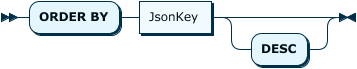
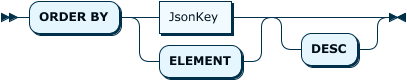
Add ANY to SEARCH, remove ELEMENT from FROM

diff --git a/res/doc.html b/res/doc.html
@@ -217,11 +217,11 @@
             
             <li><a href="#Statement" title="Statement">Statement</a></li>
             </ul>
-         </p><br><p style="font-size: 14px; font-weight:bold"><a name="Search">Search:</a></p><img border="0" src="diagram/Search.png" height="113" width="947" usemap="#Search.map"><map name="Search.map"><area shape="rect" coords="123,1,183,33" href="#Target" title="Target"><area shape="rect" coords="395,1,471,33" href="#Operator" title="Operator"><area shape="rect" coords="491,1,547,33" href="#Value" title="Value"></map><p>
+         </p><br><p style="font-size: 14px; font-weight:bold"><a name="Search">Search:</a></p><img border="0" src="diagram/Search.png" height="211" width="911" usemap="#Search.map"><map name="Search.map"><area shape="rect" coords="269,1,329,33" href="#Target" title="Target"><area shape="rect" coords="541,1,617,33" href="#Operator" title="Operator"><area shape="rect" coords="637,1,693,33" href="#Value" title="Value"></map><p>
          
          <div class="ebnf">
             
-            <pre><a href="#Search" title="Search" shape="rect">Search</a>   ::= 'SEARCH' <a href="#Target" title="Target" shape="rect">Target</a> 'FOR' ( 'KEY' | 'VALUE' )? <a href="#Operator" title="Operator" shape="rect">Operator</a> <a href="#Value" title="Value" shape="rect">Value</a> 'CASE SENSITIVE'? 'WITH VALUES'?</pre>
+            <pre><a href="#Search" title="Search" shape="rect">Search</a>   ::= 'SEARCH' 'DISTINCT'? <a href="#Target" title="Target" shape="rect">Target</a> 'FOR' ( 'ANY' | 'KEY' | 'VALUE' ) <a href="#Operator" title="Operator" shape="rect">Operator</a> <a href="#Value" title="Value" shape="rect">Value</a> 'CASE SENSITIVE'? 'WITH VALUES'?</pre>
             </div>
          </p>
       
@@ -231,11 +231,11 @@
             
             <li><a href="#Statement" title="Statement">Statement</a></li>
             </ul>
-         </p><br><p style="font-size: 14px; font-weight:bold"><a name="Where">Where:</a></p><img border="0" src="diagram/Where.png" height="69" width="587" usemap="#Where.map"><map name="Where.map"><area shape="rect" coords="119,1,191,33" href="#JsonKey" title="JsonKey"><area shape="rect" coords="211,1,287,33" href="#Operator" title="Operator"><area shape="rect" coords="307,1,363,33" href="#Value" title="Value"></map><p>
+         </p><br><p style="font-size: 14px; font-weight:bold"><a name="Where">Where:</a></p><img border="0" src="diagram/Where.png" height="81" width="637" usemap="#Where.map"><map name="Where.map"><area shape="rect" coords="139,1,211,33" href="#JsonKey" title="JsonKey"><area shape="rect" coords="261,1,337,33" href="#Operator" title="Operator"><area shape="rect" coords="357,1,413,33" href="#Value" title="Value"></map><p>
          
          <div class="ebnf">
             
-            <pre><a href="#Where" title="Where" shape="rect">Where</a>    ::= 'WHERE' <a href="#JsonKey" title="JsonKey" shape="rect">JsonKey</a> <a href="#Operator" title="Operator" shape="rect">Operator</a> <a href="#Value" title="Value" shape="rect">Value</a> 'CASE SENSITIVE'?</pre>
+            <pre><a href="#Where" title="Where" shape="rect">Where</a>    ::= 'WHERE' ( <a href="#JsonKey" title="JsonKey" shape="rect">JsonKey</a> | 'ELEMENT' ) <a href="#Operator" title="Operator" shape="rect">Operator</a> <a href="#Value" title="Value" shape="rect">Value</a> 'CASE SENSITIVE'?</pre>
             </div>
          </p>
       
@@ -279,11 +279,11 @@
             
             <li><a href="#Select" title="Select">Select</a></li>
             </ul>
-         </p><br><p style="font-size: 14px; font-weight:bold"><a name="OrderBy">OrderBy:</a></p><img border="0" src="diagram/OrderBy.png" height="69" width="357" usemap="#OrderBy.map"><map name="OrderBy.map"><area shape="rect" coords="139,1,211,33" href="#JsonKey" title="JsonKey"></map><p>
+         </p><br><p style="font-size: 14px; font-weight:bold"><a name="OrderBy">OrderBy:</a></p><img border="0" src="diagram/OrderBy.png" height="81" width="407" usemap="#OrderBy.map"><map name="OrderBy.map"><area shape="rect" coords="159,1,231,33" href="#JsonKey" title="JsonKey"></map><p>
          
          <div class="ebnf">
             
-            <pre><a href="#OrderBy" title="OrderBy" shape="rect">OrderBy</a>  ::= 'ORDER BY' <a href="#JsonKey" title="JsonKey" shape="rect">JsonKey</a> 'DESC'?</pre>
+            <pre><a href="#OrderBy" title="OrderBy" shape="rect">OrderBy</a>  ::= 'ORDER BY' ( <a href="#JsonKey" title="JsonKey" shape="rect">JsonKey</a> | 'ELEMENT' ) 'DESC'?</pre>
             </div>
          </p>
       
@@ -387,15 +387,16 @@
             
             <li><a href="#Describe" title="Describe">Describe</a></li>
             </ul>
-         </p><br><p style="font-size: 14px; font-weight:bold"><a name="SelectProjection">SelectProjection:</a></p><img border="0" src="diagram/SelectProjection.png" height="213" width="403" usemap="#SelectProjection.map"><map name="SelectProjection.map"><area shape="rect" coords="49,1,121,33" href="#JsonKey" title="JsonKey"><area shape="rect" coords="115,89,187,121" href="#JsonKey" title="JsonKey"><area shape="rect" coords="49,177,127,209" href="#MathExpr" title="MathExpr"><area shape="rect" coords="193,177,307,209" href="#MathProjection" title="MathProjection"></map><p>
+         </p><br><p style="font-size: 14px; font-weight:bold"><a name="SelectProjection">SelectProjection:</a></p><img border="0" src="diagram/SelectProjection.png" height="257" width="403" usemap="#SelectProjection.map"><map name="SelectProjection.map"><area shape="rect" coords="49,1,121,33" href="#JsonKey" title="JsonKey"><area shape="rect" coords="115,89,187,121" href="#JsonKey" title="JsonKey"><area shape="rect" coords="49,133,127,165" href="#MathExpr" title="MathExpr"><area shape="rect" coords="193,133,307,165" href="#MathProjection" title="MathProjection"></map><p>
          
          <div class="ebnf">
             
             <pre><a href="#SelectProjection" title="SelectProjection" shape="rect">SelectProjection</a>
          ::= <a href="#JsonKey" title="JsonKey" shape="rect">JsonKey</a>
            | '(' <a href="#JsonKey" title="JsonKey" shape="rect">JsonKey</a> ( ',' <a href="#JsonKey" title="JsonKey" shape="rect">JsonKey</a> )* ') '
-           | 'ELEMENT'
-           | <a href="#MathExpr" title="MathExpr" shape="rect">MathExpr</a> '(' <a href="#MathProjection" title="MathProjection" shape="rect">MathProjection</a> ')'</pre>
+           | <a href="#MathExpr" title="MathExpr" shape="rect">MathExpr</a> '(' <a href="#MathProjection" title="MathProjection" shape="rect">MathProjection</a> ')'
+           | 'KEYS'
+           | 'VALUES'</pre>
             </div>
          </p>
       
@@ -454,12 +455,12 @@
             
             <li><a href="#Target" title="Target">Target</a></li>
             </ul>
-         </p><br><p style="font-size: 14px; font-weight:bold"><a name="JsonKey">JsonKey:</a></p><img border="0" src="diagram/JsonKey.png" height="81" width="313" usemap="#JsonKey.map"><map name="JsonKey.map"><area shape="rect" coords="95,1,217,33" href="#JsonKeyContent" title="JsonKeyContent"><area shape="rect" coords="93,45,215,77" href="#JsonKeyContent" title="JsonKeyContent"></map><p>
+         </p><br><p style="font-size: 14px; font-weight:bold"><a name="JsonKey">JsonKey:</a></p><img border="0" src="diagram/JsonKey.png" height="81" width="267" usemap="#JsonKey.map"><map name="JsonKey.map"><area shape="rect" coords="95,1,171,33" href="#JsonPath" title="JsonPath"><area shape="rect" coords="93,45,169,77" href="#JsonPath" title="JsonPath"></map><p>
          
          <div class="ebnf">
             
-            <pre><a href="#JsonKey" title="JsonKey" shape="rect">JsonKey</a>  ::= '"' <a href="#JsonKeyContent" title="JsonKeyContent" shape="rect">JsonKeyContent</a> '"'
-           | "'" <a href="#JsonKeyContent" title="JsonKeyContent" shape="rect">JsonKeyContent</a> "'"</pre>
+            <pre><a href="#JsonKey" title="JsonKey" shape="rect">JsonKey</a>  ::= '"' <a href="#JsonPath" title="JsonPath" shape="rect">JsonPath</a> '"'
+           | "'" <a href="#JsonPath" title="JsonPath" shape="rect">JsonPath</a> "'"</pre>
             </div>
          </p>
       
@@ -477,21 +478,6 @@
             
             <li><a href="#Where" title="Where">Where</a></li>
             </ul>
-         </p><br><p style="font-size: 14px; font-weight:bold"><a name="JsonKeyContent">JsonKeyContent:</a></p><img border="0" src="diagram/JsonKeyContent.png" height="85" width="321" usemap="#JsonKeyContent.map"><map name="JsonKeyContent.map"><area shape="rect" coords="49,17,125,49" href="#JsonPath" title="JsonPath"></map><p>
-         
-         <div class="ebnf">
-            
-            <pre><a href="#JsonKeyContent" title="JsonKeyContent" shape="rect">JsonKeyContent</a>
-         ::= <a href="#JsonPath" title="JsonPath" shape="rect">JsonPath</a>+ '.ELEMENT'?</pre>
-            </div>
-         </p>
-      
-      <p>referenced by:
-         
-         <ul>
-            
-            <li><a href="#JsonKey" title="JsonKey">JsonKey</a></li>
-            </ul>
          </p><br><p style="font-size: 14px; font-weight:bold"><a name="JsonPath">JsonPath:</a></p><img border="0" src="diagram/JsonPath.png" height="81" width="205" usemap="#JsonPath.map"><map name="JsonPath.map"><area shape="rect" coords="49,45,155,77" href="#PathSegment" title="PathSegment"></map><p>
          
          <div class="ebnf">
@@ -506,7 +492,7 @@
             
             <li><a href="#FullJsonPath" title="FullJsonPath">FullJsonPath</a></li>
             
-            <li><a href="#JsonKeyContent" title="JsonKeyContent">JsonKeyContent</a></li>
+            <li><a href="#JsonKey" title="JsonKey">JsonKey</a></li>
             </ul>
          </p><br><p style="font-size: 14px; font-weight:bold"><a name="PathSegment">PathSegment:</a></p><img border="0" src="diagram/PathSegment.png" height="101" width="439" usemap="#PathSegment.map"><map name="PathSegment.map"><area shape="rect" coords="69,33,151,65" href="#Character" title="Character"><area shape="rect" coords="257,65,323,97" href="#Integer" title="Integer"></map><p>
          
